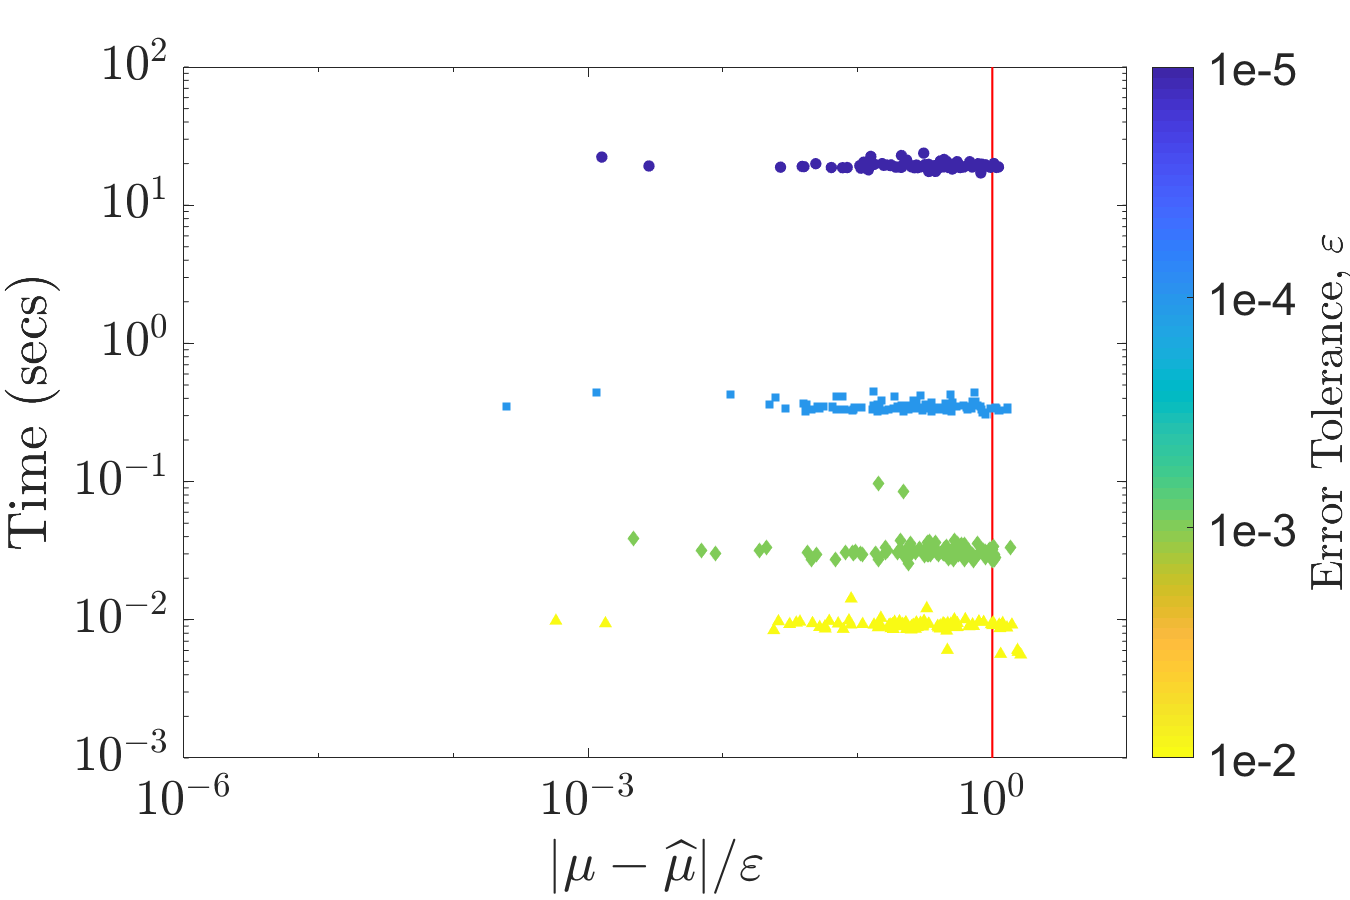
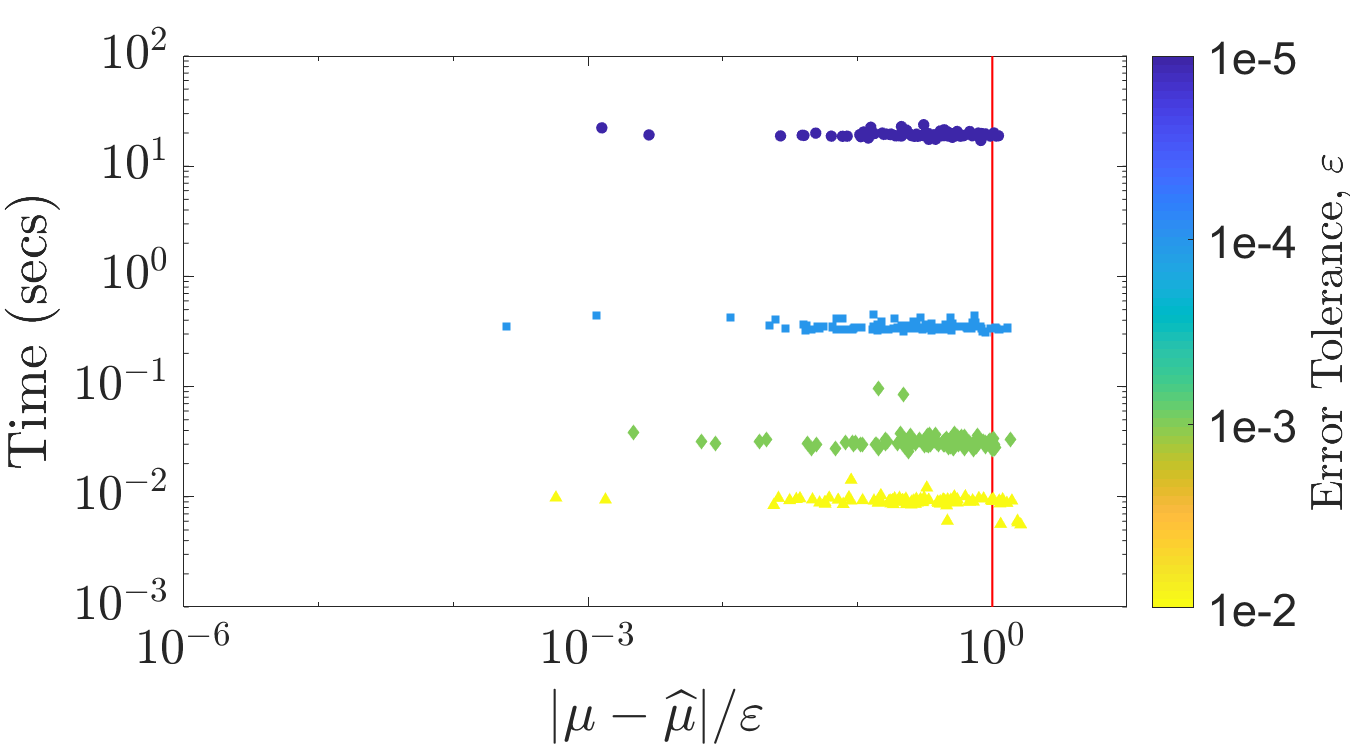
Paper: correcting figure sizes

diff --git a/GAIL_Matlab/Papers/Thesis/Jagadees/Paper2018/BayesianCubaturePaper2018.tex b/GAIL_Matlab/Papers/Thesis/Jagadees/Paper2018/BayesianCubaturePaper2018.tex
@@ -712,19 +712,13 @@ So, Algorithm \ref{algorithm1}  in its current form is not practical.
 %\FJHNote{Jags, please check this re-write} %\JRNote{looks good}
 
 \begin{figure}
-	\captionsetup[subfigure]{labelformat=empty}
 	\centering
-	\begin{subfigure}[h]{0.8\linewidth}
-		\includegraphics[width=1.1\linewidth]{MVN_guaranteed_time_Matern_d2_2018-Aug-31}
-	\end{subfigure}
+		\includegraphics[width=0.95\linewidth]{MVN_guaranteed_time_Matern_d2_2018-Aug-31}
 	\centering
-	\begin{subfigure}[h]{0.8\linewidth}
-		\includegraphics[width=1.1\linewidth]{MVN_rapid_n_vs_time_Matern_d2_2018-Aug-31}
-	\end{subfigure}
+		\includegraphics[width=0.95\linewidth]{MVN_rapid_n_vs_time_Matern_d2_2018-Aug-31}
 	\caption{Multivariate normal probability estimated using Mat\'ern kernel with $d=2$ using empirical stopping criterion. Top: Guaranteed integration within error tolerance $\varepsilon$. Bottom: Computation time rapidly increases with increase of $n$. These figures can be reproduced using \code{matern\_guaranteed\_plots.m} in GAIL.}
 	\label{fig:MVN_Metern_d2b2}
 \end{figure}
-
 
 \section{Fast Automatic Bayesian Cubature}\label{sec:fast_BC}
 
@@ -1267,19 +1261,15 @@ This could be due to the periodization transformed $f_\textup{Genz}$ being smoot
 \begin{figure}
 	\centering
 	%d=3 problem transformed into d=2
-	\includegraphics[width=0.95\linewidth]{"MVN_guaranteed_time_MLE_C2sin_d2_r2_2018-Sep-6"}
+	\includegraphics[width=0.98\linewidth]{"MVN_guaranteed_time_MLE_C2sin_d2_r2_2018-Sep-6"}
 	\caption[Guaranteed:]{Multivariate normal probability example using the empirical Bayes stopping criterion.}
 	\label{fig:mvn-guaranteed-MLE}
-%\end{figure}
-%\begin{figure}
 	\centering
-	\includegraphics[width=0.95\linewidth]{"MVN_guaranteed_time_full_C2sin_d2_r2_2018-Sep-6"}
+	\includegraphics[width=0.98\linewidth]{"MVN_guaranteed_time_full_C2sin_d2_r2_2018-Sep-6"}
 	\caption[MVN guaranteed : FB]{Multivariate normal probability example using the full Bayes stopping criterion.}
 	\label{fig:mvn-guaranteed-FB}
-%\end{figure}
-%\begin{figure}
 	\centering
-	\includegraphics[width=0.95\linewidth]{"MVN_guaranteed_time_GCV_C2sin_d2_r2_2018-Sep-6"}
+	\includegraphics[width=0.98\linewidth]{"MVN_guaranteed_time_GCV_C2sin_d2_r2_2018-Sep-6"}
 	\caption[MVN guaranteed : GCV]{Multivariate normal probability example using the GCV stopping criterion.}
 	\label{fig:mvn-guaranteed-GCV}
 \end{figure}
